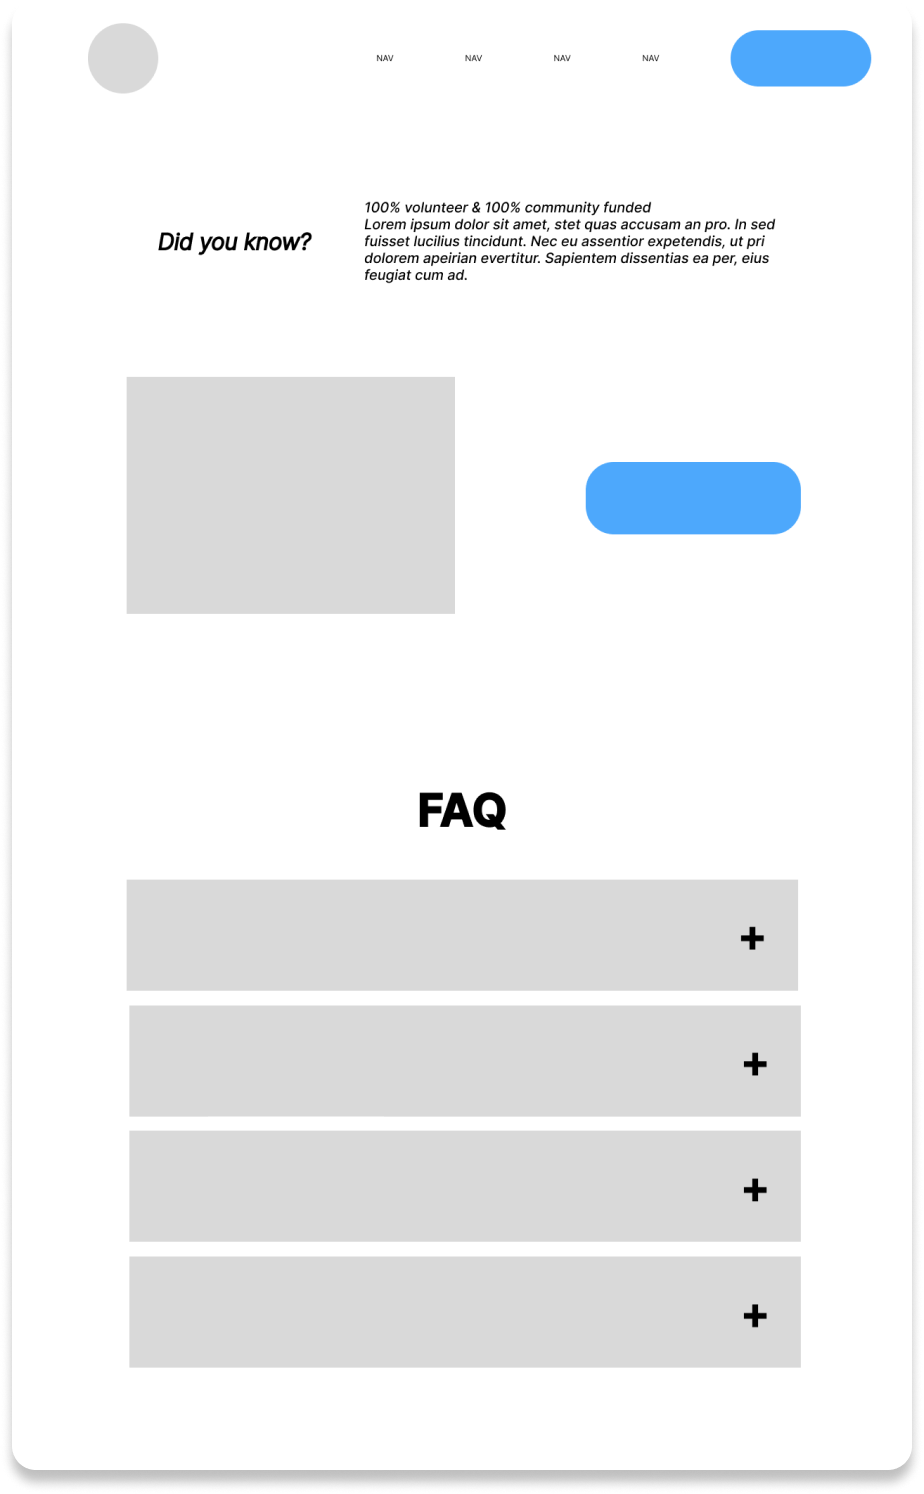
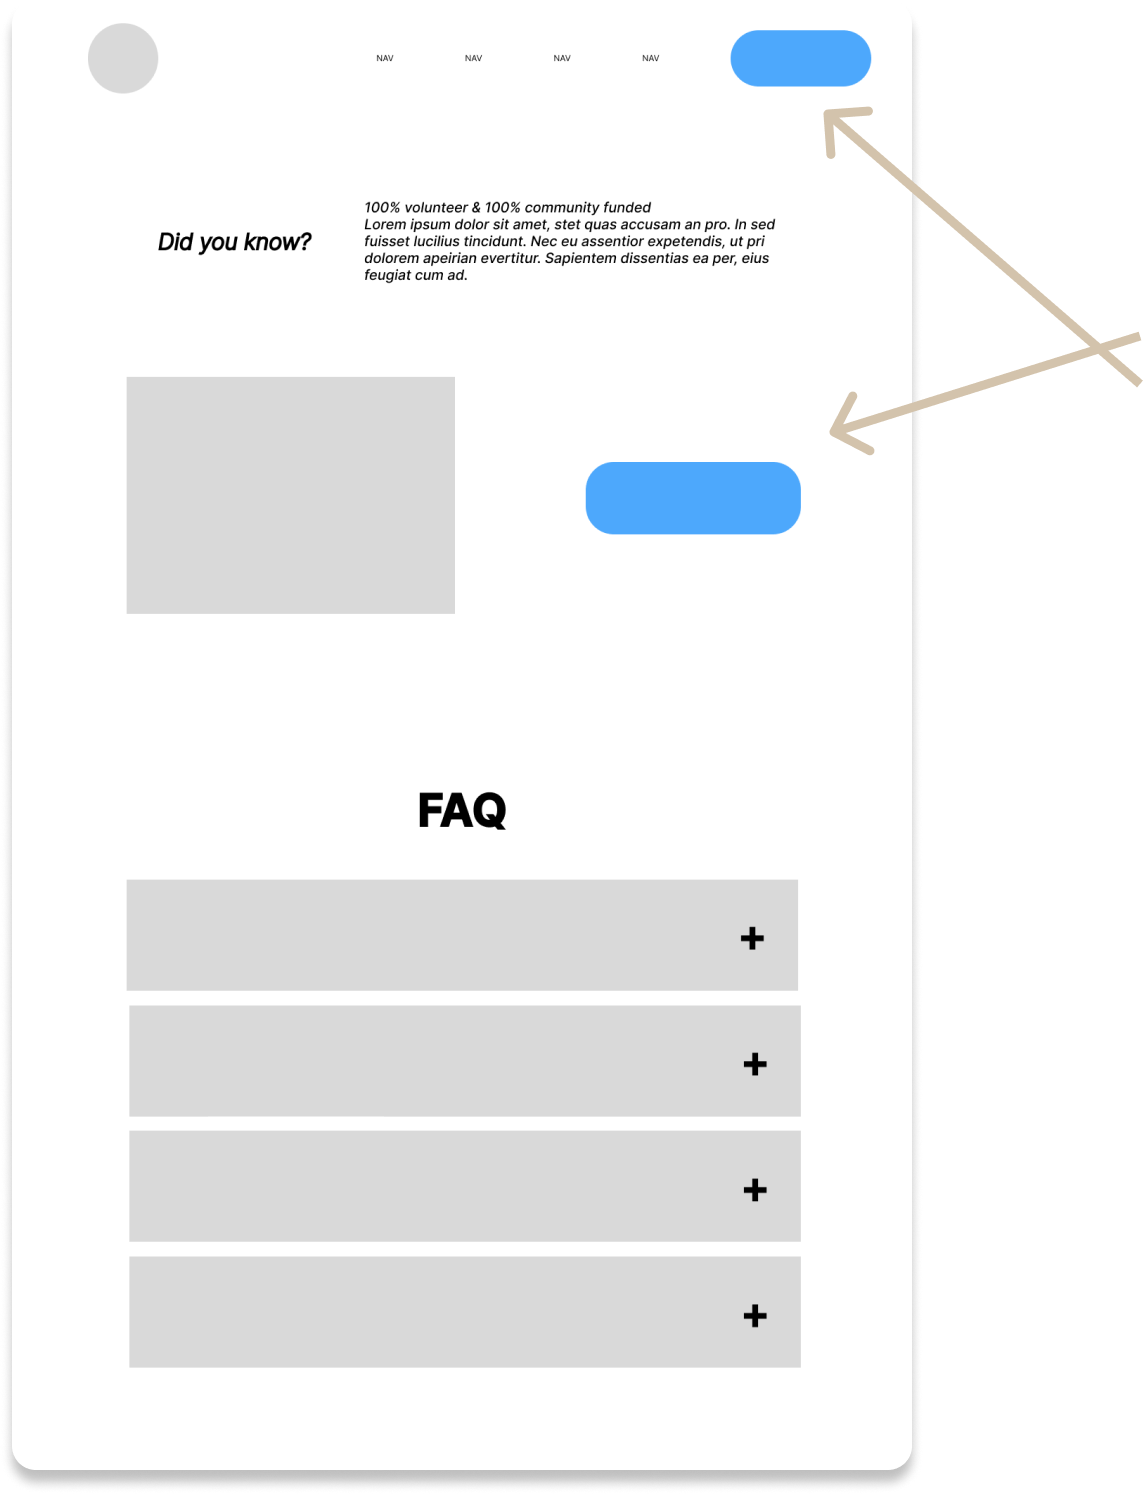
bubbles and lofi

diff --git a/app/projects/richfield-july-4/page.tsx b/app/projects/richfield-july-4/page.tsx
@@ -179,17 +179,38 @@ export default function RichfieldJuly4() {
             "Based on our tight timeframe, we created digital wireframes for the main pages before shifting to build mode.",
           ]}
         />
-        <div className="bg-lavender-500 py-24 flex flex-row justify-center">
-          <Image
-            src={homePageLofi}
-            alt="Home Page Lo-Fi"
-            className="max-w-[300px] mx-8"
-          />
-          <Image
-            src={aboutLofi}
-            alt="About Page Lo-Fi"
-            className="max-w-[300px] mx-8"
-          />
+        <div className="bg-lavender-500 py-24 flex flex-row flex-wrap justify-center">
+          <div className="relative">
+            <Image
+              src={homePageLofi}
+              alt="Home Page Lo-Fi"
+              className="w-[200px] md:w-[375px] mx-8 ml-48 my-8"
+            />
+            <div className="w-[180px] md:w-[253px] bg-sand-500 rounded-lg p-4 absolute top-12 right-[216px] md:right-96">
+              <p className="text-black text-xs md:text-lg">
+                Include images from previous years to build awareness of the
+                long history of the event.
+              </p>
+            </div>
+            <div className="w-[180px] md:w-[253px] bg-sand-500 rounded-lg p-4 absolute bottom-4 right-[216px] md:right-96">
+              <p className="text-black text-xs md:text-lg">
+                Photo & letter from the President to humanize the committee and
+                rebuild trust.
+              </p>
+            </div>
+          </div>
+          <div className="relative">
+            <Image
+              src={aboutLofi}
+              alt="About Page Lo-Fi"
+              className="w-[200px] md:w-[375px] mx-8 mr-48 my-8"
+            />
+            <div className="w-[180px] md:w-[253px] bg-sand-500 rounded-lg p-4 absolute top-12 left-[216px] md:left-96">
+              <p className="text-black text-xs md:text-lg">
+                Keep “Donate” CTA button visible throughout the website.
+              </p>
+            </div>
+          </div>
         </div>
         <Section
           header="Seeking a Retro & Patriotic feel"
@@ -234,7 +255,11 @@ export default function RichfieldJuly4() {
         </div>
         <div className="w-full flex flex-row-reverse mt-2">
           <div className="text-black relative w-[459px] h-[130px] mr-[5%] sm:mr-[15%] md:mr-[20%]">
-            <Image src={textBubble} alt="Text Bubble" className="absolute" />
+            <Image
+              src={textBubble}
+              alt="Text Bubble"
+              className="absolute transform scale-x-[-1]"
+            />
             <div className="absolute inset-0 flex flex-col justify-center items-center">
               <h4>“Thanks for all your work on this!!!”</h4>
               <p>-Laurie H, Richfield resident</p>
